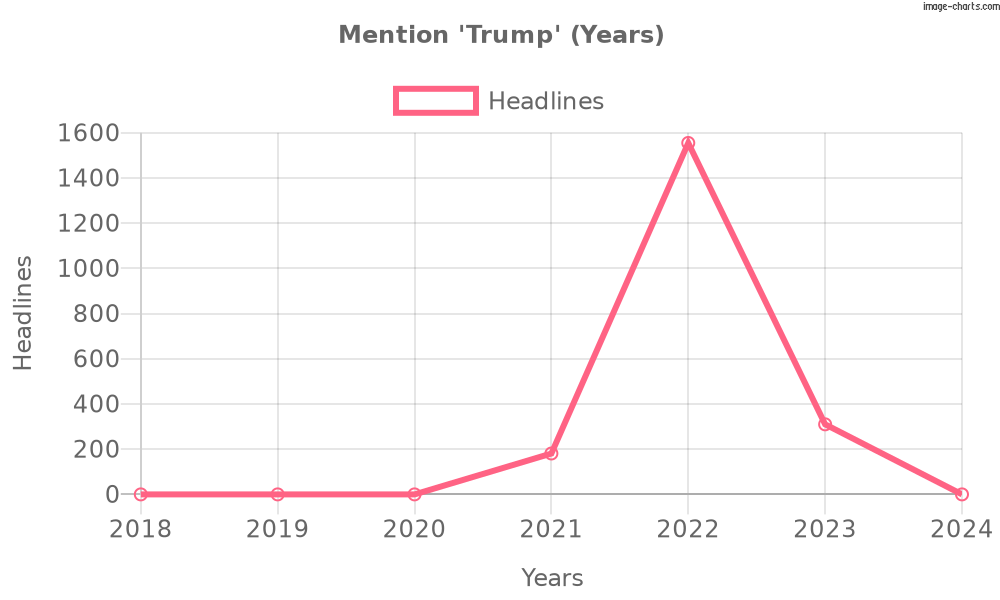
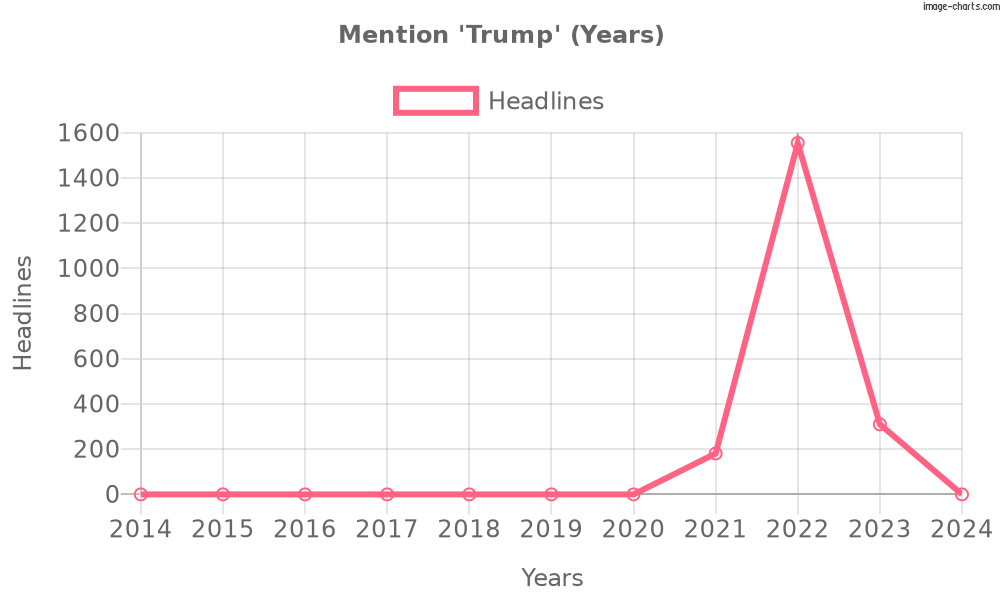
latest

diff --git a/charts.js b/charts.js
@@ -59,7 +59,7 @@ for (var month of months) {
   }).length
 }
 
-var years = ["2018", "2019", "2020", "2021", "2022", "2023", "2024"]
+var years = ["2014", "2015", "2016", "2017", "2018", "2019", "2020", "2021", "2022", "2023", "2024"]
 
 for (var year of years) {
   year_count[year] = headlines.filter(a => moment(a.timestamp * 1000).format('YYYY') === year).length
